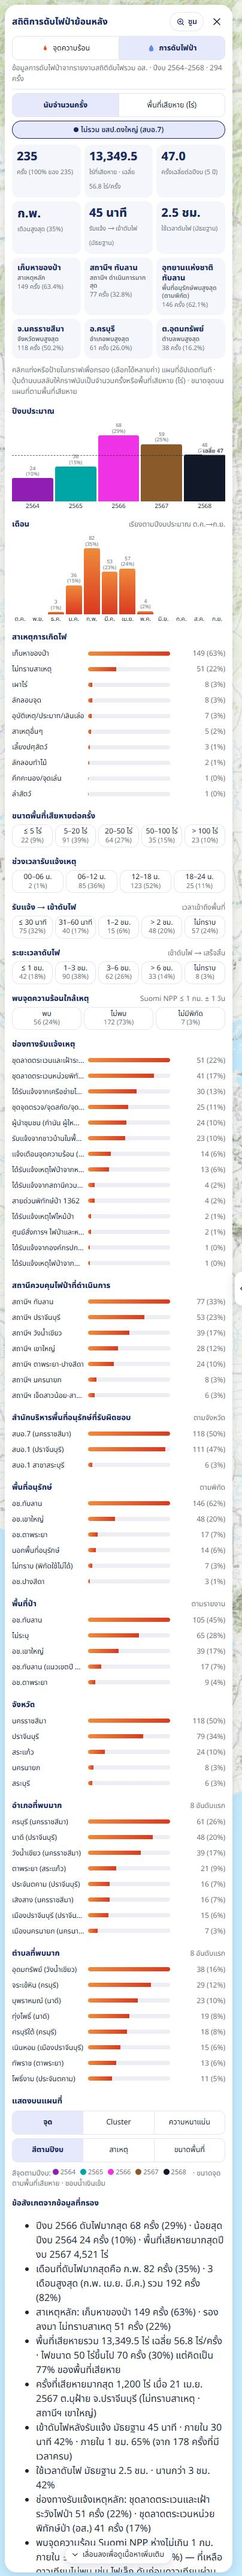
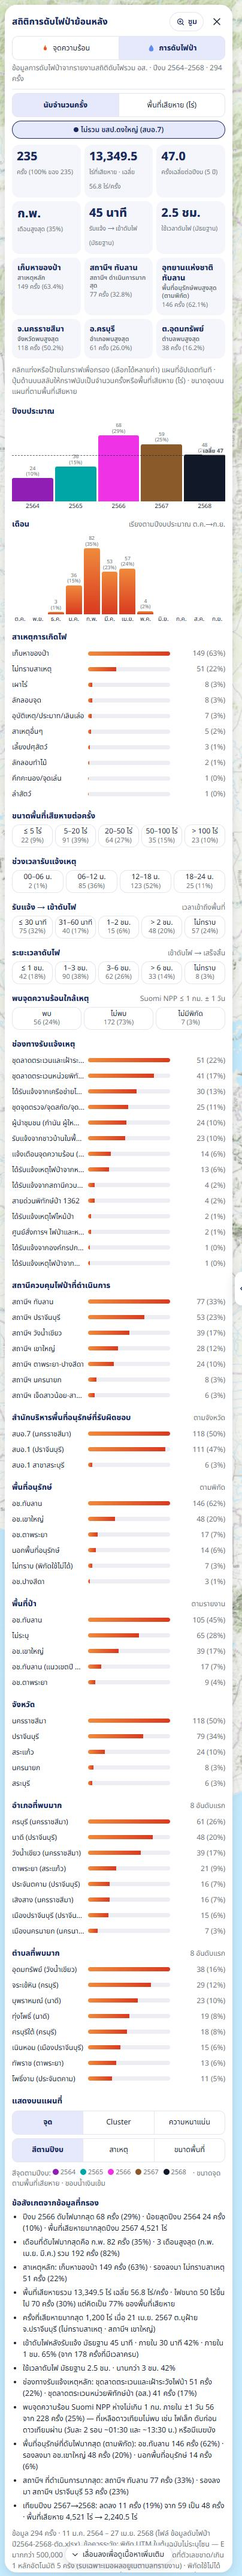
สถิติการดับไฟป่า: ข้อสังเกตจากข้อมูลที่กรองใช้ขนาดตัวอักษรเท่าแท็บจุดความร้อน (12.5px) + ภาพคู่มือ

Changed region(s): [[0.0594, 0.8434, 0.9208, 0.9995]]

diff --git a/index.html b/index.html
@@ -294,7 +294,7 @@ hr.l{border:0;border-top:1px solid var(--line);margin:10px 0}
 /* ตัวเลือกประเภทพื้นที่/ช่วงเวลา/การจัดการเชื้อเพลิง: แถวเดียว ปุ่มกว้างเท่ากัน ชื่อบน ตัวเลขล่าง (ผู้ใช้ขอให้กระชับ) */
 .chs.r1{flex-wrap:nowrap;gap:4px}.chs.r1 .ch{flex:1 1 0;min-width:0;display:flex;flex-direction:column;align-items:center;justify-content:center;padding:3px 2px;border-radius:12px;line-height:1.3;text-align:center}@media(max-width:767px){.chs.r1 .ch{font-size:11.5px}}
 .chs.r1 .ch span{max-width:100%;white-space:nowrap;overflow:hidden;text-overflow:ellipsis}.chs.r1 em{font-size:11px}
-#h-ins{margin:4px 0;padding-left:18px;font-size:12.5px}#h-ins li{margin:4px 0}
+#h-ins,#x-ins{margin:4px 0;padding-left:18px;font-size:12.5px}#h-ins li,#x-ins li{margin:4px 0}
 .pbr{display:flex;align-items:center;gap:8px}
 #pbf{position:fixed;z-index:6;left:16px;right:16px;bottom:calc(36px + env(safe-area-inset-bottom));width:auto;max-width:640px;margin:0 auto;padding:8px 12px 10px;border-radius:16px}
 #pbf[hidden]{display:none}
